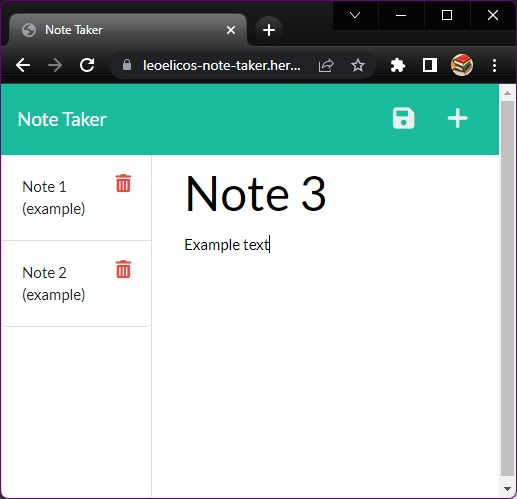
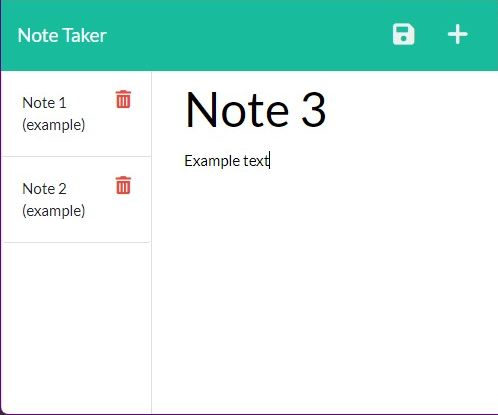
Update README screenshots

diff --git a/README.md b/README.md
@@ -39,6 +39,10 @@ https://user-images.githubusercontent.com/99461390/167338663-9d9135c9-c289-48b4-
 
 ![Writing](./demo2.jpg)
 
+### Screenshot: Saved
+
+![Writing](./demo3.jpg)
+
 ## Credits
 
 -  BCS Resources
